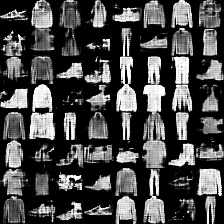
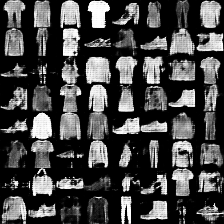
fix bugs in WGAN, WGAN-GP, DRAGAN
output of discriminator is changed into linear output (logit value) from
sigmoid output

diff --git a/WGAN_GP.py b/WGAN_GP.py
@@ -9,7 +9,7 @@ from ops import *
 from utils import *
 
 class WGAN_GP(object):
-    model_name = "WGAN-GP"     # name for checkpoint
+    model_name = "WGAN_GP"     # name for checkpoint
 
     def __init__(self, sess, epoch, batch_size, z_dim, dataset_name, checkpoint_dir, result_dir, log_dir):
         self.sess = sess
@@ -100,8 +100,8 @@ class WGAN_GP(object):
         D_fake, D_fake_logits, _ = self.discriminator(G, is_training=True, reuse=True)
 
         # get loss for discriminator
-        d_loss_real = - tf.reduce_mean(D_real)
-        d_loss_fake = tf.reduce_mean(D_fake)
+        d_loss_real = - tf.reduce_mean(D_real_logits)
+        d_loss_fake = tf.reduce_mean(D_fake_logits)
 
         self.d_loss = d_loss_real + d_loss_fake
 
@@ -113,7 +113,7 @@ class WGAN_GP(object):
         alpha = tf.random_uniform(shape=self.inputs.get_shape(), minval=0.,maxval=1.)
         differences = G - self.inputs # This is different from MAGAN
         interpolates = self.inputs + (alpha * differences)
-        D_inter,_,_=self.discriminator(interpolates, is_training=True, reuse=True)
+        _,D_inter,_=self.discriminator(interpolates, is_training=True, reuse=True)
         gradients = tf.gradients(D_inter, [interpolates])[0]
         slopes = tf.sqrt(tf.reduce_sum(tf.square(gradients), reduction_indices=[1]))
         gradient_penalty = tf.reduce_mean((slopes - 1.) ** 2)

diff --git a/DRAGAN.py b/DRAGAN.py
@@ -119,7 +119,7 @@ class DRAGAN(object):
         alpha = tf.random_uniform(shape=self.inputs.get_shape(), minval=0.,maxval=1.)
         differences = self.inputs_p - self.inputs  # This is different from WGAN-GP
         interpolates = self.inputs + (alpha * differences)
-        D_inter,_,_=self.discriminator(interpolates, is_training=True, reuse=True)
+        _,D_inter,_=self.discriminator(interpolates, is_training=True, reuse=True)
         gradients = tf.gradients(D_inter, [interpolates])[0]
         slopes = tf.sqrt(tf.reduce_sum(tf.square(gradients), reduction_indices=[1]))
         gradient_penalty = tf.reduce_mean((slopes - 1.) ** 2)

diff --git a/WGAN.py b/WGAN.py
@@ -99,8 +99,8 @@ class WGAN(object):
         D_fake, D_fake_logits, _ = self.discriminator(G, is_training=True, reuse=True)
 
         # get loss for discriminator
-        d_loss_real = - tf.reduce_mean(D_real)
-        d_loss_fake = tf.reduce_mean(D_fake)
+        d_loss_real = - tf.reduce_mean(D_real_logits)
+        d_loss_fake = tf.reduce_mean(D_fake_logits)
 
         self.d_loss = d_loss_real + d_loss_fake
 

diff --git a/README.md b/README.md
@@ -12,7 +12,7 @@ Pytorch Version is now availabel at https://github.com/znxlwm/pytorch-generative
 **GAN** | [Arxiv](https://arxiv.org/abs/1406.2661) | <img src = 'assets/equations/GAN.png' height = '70px'>
 **LSGAN**| [Arxiv](https://arxiv.org/abs/1611.04076) | <img src = 'assets/equations/LSGAN.png' height = '70px'>
 **WGAN**| [Arxiv](https://arxiv.org/abs/1701.07875) | <img src = 'assets/equations/WGAN.png' height = '105px'>
-**WGAN-GP**| [Arxiv](https://arxiv.org/abs/1704.00028) | <img src = 'assets/equations/WGAN_GP.png' height = '70px'>
+**WGAN_GP**| [Arxiv](https://arxiv.org/abs/1704.00028) | <img src = 'assets/equations/WGAN_GP.png' height = '70px'>
 **DRAGAN**| [Arxiv](https://arxiv.org/abs/1705.07215) | <img src = 'assets/equations/DRAGAN.png' height = '70px'>
 **CGAN**| [Arxiv](https://arxiv.org/abs/1411.1784) | <img src = 'assets/equations/CGAN.png' height = '70px'>
 **infoGAN**| [Arxiv](https://arxiv.org/abs/1606.03657) | <img src = 'assets/equations/infoGAN.png' height = '70px'>
@@ -40,7 +40,7 @@ All results are randomly sampled.
 GAN | <img src = 'assets/mnist_results/random_generation/GAN_epoch001_test_all_classes.png' height = '230px'> | <img src = 'assets/mnist_results/random_generation/GAN_epoch009_test_all_classes.png' height = '230px'> | <img src = 'assets/mnist_results/random_generation/GAN_epoch024_test_all_classes.png' height = '230px'>
 LSGAN | <img src = 'assets/mnist_results/random_generation/LSGAN_epoch001_test_all_classes.png' height = '230px'> | <img src = 'assets/mnist_results/random_generation/LSGAN_epoch009_test_all_classes.png' height = '230px'> | <img src = 'assets/mnist_results/random_generation/LSGAN_epoch024_test_all_classes.png' height = '230px'>
 WGAN | <img src = 'assets/mnist_results/random_generation/WGAN_epoch001_test_all_classes.png' height = '230px'> | <img src = 'assets/mnist_results/random_generation/WGAN_epoch009_test_all_classes.png' height = '230px'> | <img src = 'assets/mnist_results/random_generation/WGAN_epoch024_test_all_classes.png' height = '230px'>
-WGAN-GP | <img src = 'assets/mnist_results/random_generation/WGAN-GP_epoch001_test_all_classes.png' height = '230px'> | <img src = 'assets/mnist_results/random_generation/WGAN-GP_epoch009_test_all_classes.png' height = '230px'> | <img src = 'assets/mnist_results/random_generation/WGAN-GP_epoch024_test_all_classes.png' height = '230px'>
+WGAN_GP | <img src = 'assets/mnist_results/random_generation/WGAN_GP_epoch001_test_all_classes.png' height = '230px'> | <img src = 'assets/mnist_results/random_generation/WGAN_GP_epoch009_test_all_classes.png' height = '230px'> | <img src = 'assets/mnist_results/random_generation/WGAN_GP_epoch024_test_all_classes.png' height = '230px'>
 DRAGAN | <img src = 'assets/mnist_results/random_generation/DRAGAN_epoch001_test_all_classes.png' height = '230px'> | <img src = 'assets/mnist_results/random_generation/DRAGAN_epoch009_test_all_classes.png' height = '230px'> | <img src = 'assets/mnist_results/random_generation/DRAGAN_epoch024_test_all_classes.png' height = '230px'>
 EBGAN | <img src = 'assets/mnist_results/random_generation/EBGAN_epoch001_test_all_classes.png' height = '230px'> | <img src = 'assets/mnist_results/random_generation/EBGAN_epoch009_test_all_classes.png' height = '230px'> | <img src = 'assets/mnist_results/random_generation/EBGAN_epoch024_test_all_classes.png' height = '230px'>
 BEGAN | <img src = 'assets/mnist_results/random_generation/BEGAN_epoch001_test_all_classes.png' height = '230px'> | <img src = 'assets/mnist_results/random_generation/BEGAN_epoch009_test_all_classes.png' height = '230px'> | <img src = 'assets/mnist_results/random_generation/BEGAN_epoch024_test_all_classes.png' height = '230px'>
@@ -79,7 +79,7 @@ All results are randomly sampled.
 GAN | <img src = 'assets/fashion_mnist_results/random_generation/GAN_epoch000_test_all_classes.png' height = '230px'> | <img src = 'assets/fashion_mnist_results/random_generation/GAN_epoch019_test_all_classes.png' height = '230px'> | <img src = 'assets/fashion_mnist_results/random_generation/GAN_epoch039_test_all_classes.png' height = '230px'>
 LSGAN | <img src = 'assets/fashion_mnist_results/random_generation/LSGAN_epoch000_test_all_classes.png' height = '230px'> | <img src = 'assets/fashion_mnist_results/random_generation/LSGAN_epoch019_test_all_classes.png' height = '230px'> | <img src = 'assets/fashion_mnist_results/random_generation/LSGAN_epoch039_test_all_classes.png' height = '230px'>
 WGAN | <img src = 'assets/fashion_mnist_results/random_generation/WGAN_epoch000_test_all_classes.png' height = '230px'> | <img src = 'assets/fashion_mnist_results/random_generation/WGAN_epoch019_test_all_classes.png' height = '230px'> | <img src = 'assets/fashion_mnist_results/random_generation/WGAN_epoch039_test_all_classes.png' height = '230px'>
-WGAN-GP | <img src = 'assets/fashion_mnist_results/random_generation/WGAN-GP_epoch000_test_all_classes.png' height = '230px'> | <img src = 'assets/fashion_mnist_results/random_generation/WGAN-GP_epoch019_test_all_classes.png' height = '230px'> | <img src = 'assets/fashion_mnist_results/random_generation/WGAN-GP_epoch039_test_all_classes.png' height = '230px'>
+WGAN_GP | <img src = 'assets/fashion_mnist_results/random_generation/WGAN_GP_epoch000_test_all_classes.png' height = '230px'> | <img src = 'assets/fashion_mnist_results/random_generation/WGAN_GP_epoch019_test_all_classes.png' height = '230px'> | <img src = 'assets/fashion_mnist_results/random_generation/WGAN_GP_epoch039_test_all_classes.png' height = '230px'>
 DRAGAN | <img src = 'assets/fashion_mnist_results/random_generation/DRAGAN_epoch000_test_all_classes.png' height = '230px'> | <img src = 'assets/fashion_mnist_results/random_generation/DRAGAN_epoch019_test_all_classes.png' height = '230px'> | <img src = 'assets/fashion_mnist_results/random_generation/DRAGAN_epoch039_test_all_classes.png' height = '230px'>
 EBGAN | <img src = 'assets/fashion_mnist_results/random_generation/EBGAN_epoch000_test_all_classes.png' height = '230px'> | <img src = 'assets/fashion_mnist_results/random_generation/EBGAN_epoch019_test_all_classes.png' height = '230px'> | <img src = 'assets/fashion_mnist_results/random_generation/EBGAN_epoch039_test_all_classes.png' height = '230px'>
 BEGAN | <img src = 'assets/fashion_mnist_results/random_generation/BEGAN_epoch000_test_all_classes.png' height = '230px'> | <img src = 'assets/fashion_mnist_results/random_generation/BEGAN_epoch019_test_all_classes.png' height = '230px'> | <img src = 'assets/fashion_mnist_results/random_generation/BEGAN_epoch039_test_all_classes.png' height = '230px'>
